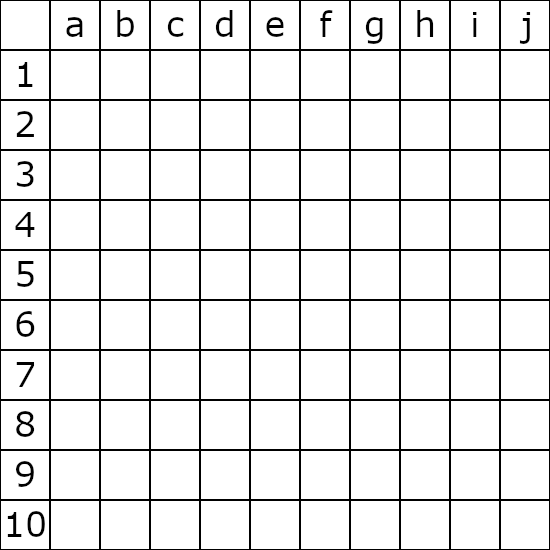
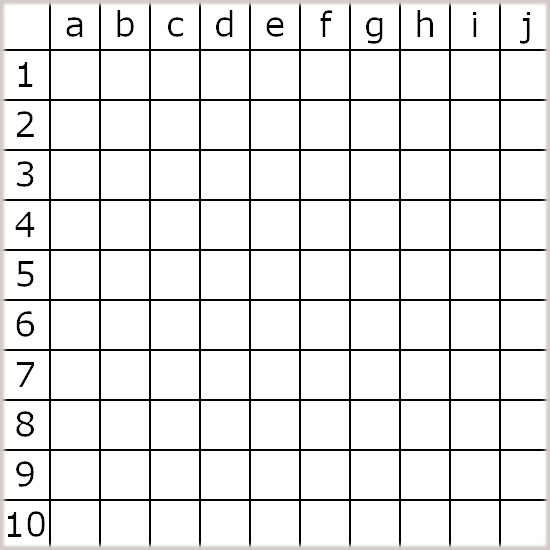
ingame textures added

Changed region(s): [[0.0, 0.0, 1.0, 1.0], [0.0618, 0.9273, 0.0927, 0.9582]]

diff --git a/Battleships/src/GameState.cpp b/Battleships/src/GameState.cpp
@@ -5,7 +5,8 @@ GameState::GameState(sf::RenderWindow *window) :
 	mShipsGrid(new Grid(sf::Vector2i(50, 50))),
 	mTargetsGrid(new Grid(sf::Vector2i(650, 50)))
 {
-
+	mBackgroundTexture.loadFromFile("assets/gamebg.png");
+	mBackground.setTexture(mBackgroundTexture);
 }
 
 GameState::~GameState(void)
@@ -16,6 +17,7 @@ GameState::~GameState(void)
 
 void GameState::render(void)
 {
+	State::get_window()->draw(mBackground);
 	mShipsGrid->draw(State::get_window());
 	mTargetsGrid->draw(State::get_window());
 }

diff --git a/Battleships/src/Grid.h b/Battleships/src/Grid.h
@@ -19,12 +19,15 @@ private:
 	struct Cursor
 	{
 		sf::RectangleShape mShape;
+		sf::Texture mCursorTex;
 		bool mDraw = false;
 
 		Cursor(void) :
 			mShape()
 		{
-			mShape.setFillColor(sf::Color::Cyan);
+			mCursorTex.loadFromFile("assets/selectedtile.png");
+			mShape.setTexture(&mCursorTex);
+			//mShape.setFillColor(sf::Color::Cyan);
 			mShape.setSize(sf::Vector2f(CELL_SIZE, CELL_SIZE));
 		}
 		~Cursor(void) { }

diff --git a/Battleships/src/MenuState.cpp b/Battleships/src/MenuState.cpp
@@ -12,7 +12,17 @@ MenuState::MenuState(sf::RenderWindow *window) :
 
 MenuState::~MenuState(void)
 {
-	
+	while (!mButtonTextures.empty())
+	{
+		delete mButtonTextures.back();
+		mButtonTextures.pop_back();
+	}
+	while (!mButtons.empty())
+	{
+		delete mButtons.back();
+		mButtons.pop_back();
+	}
+
 }
 
 void MenuState::init_ui(void)

diff --git a/Battleships/src/GameState.h b/Battleships/src/GameState.h
@@ -9,6 +9,8 @@ class GameState : public State
 private:
 	Grid *mShipsGrid;
 	Grid *mTargetsGrid;
+	sf::Texture mBackgroundTexture;
+	sf::Sprite mBackground;
 
 public:
 	GameState(sf::RenderWindow *window);
